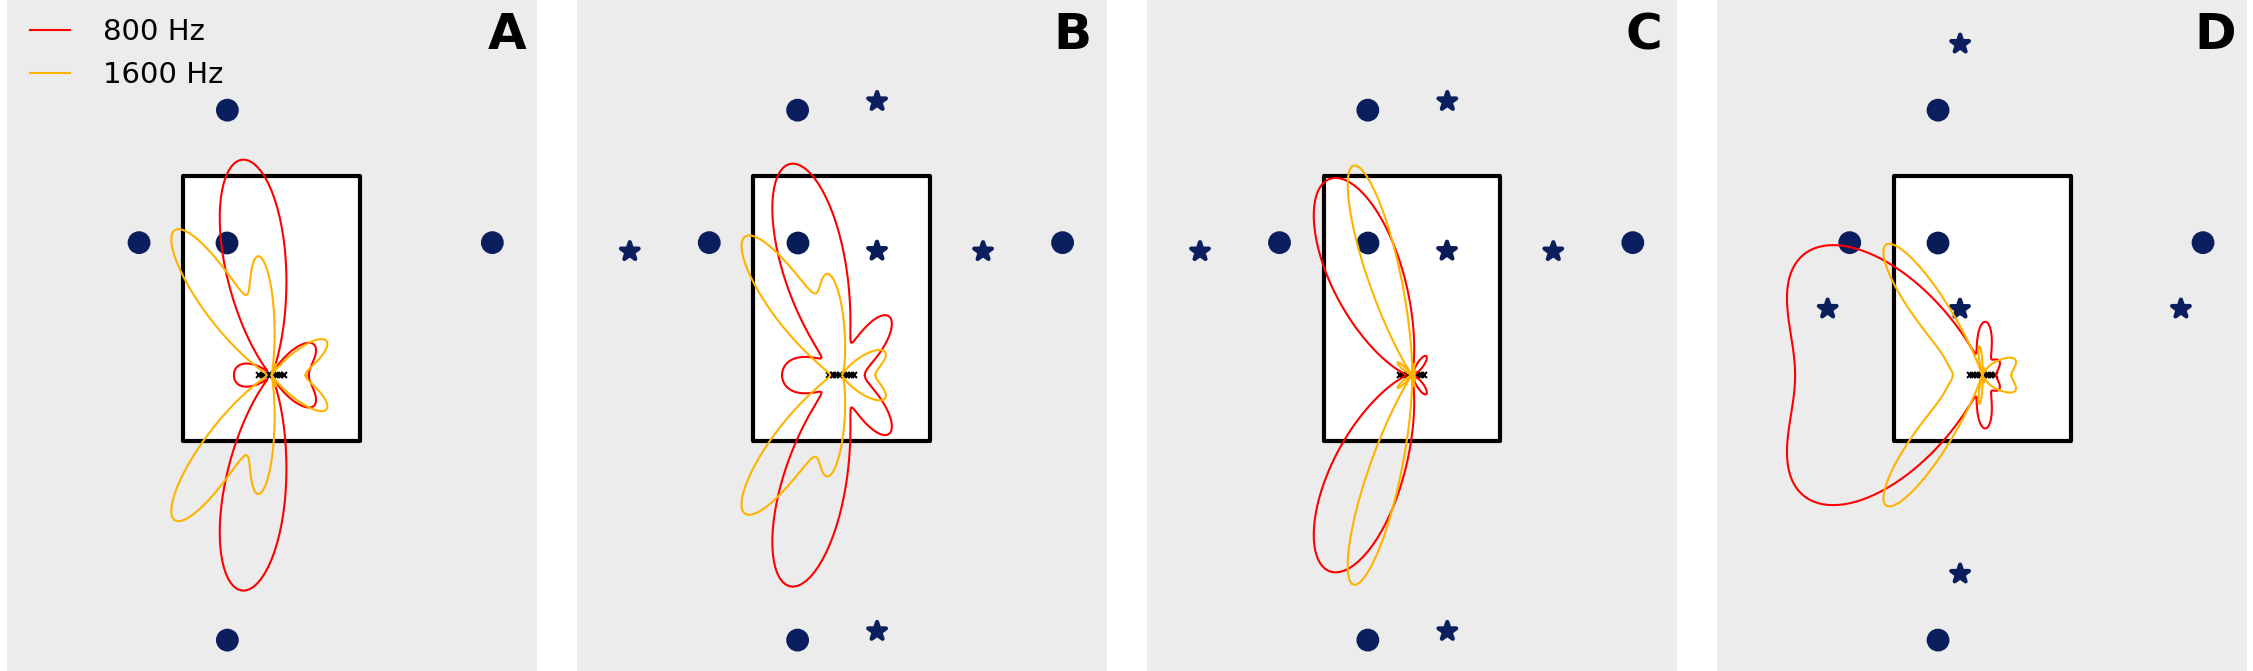
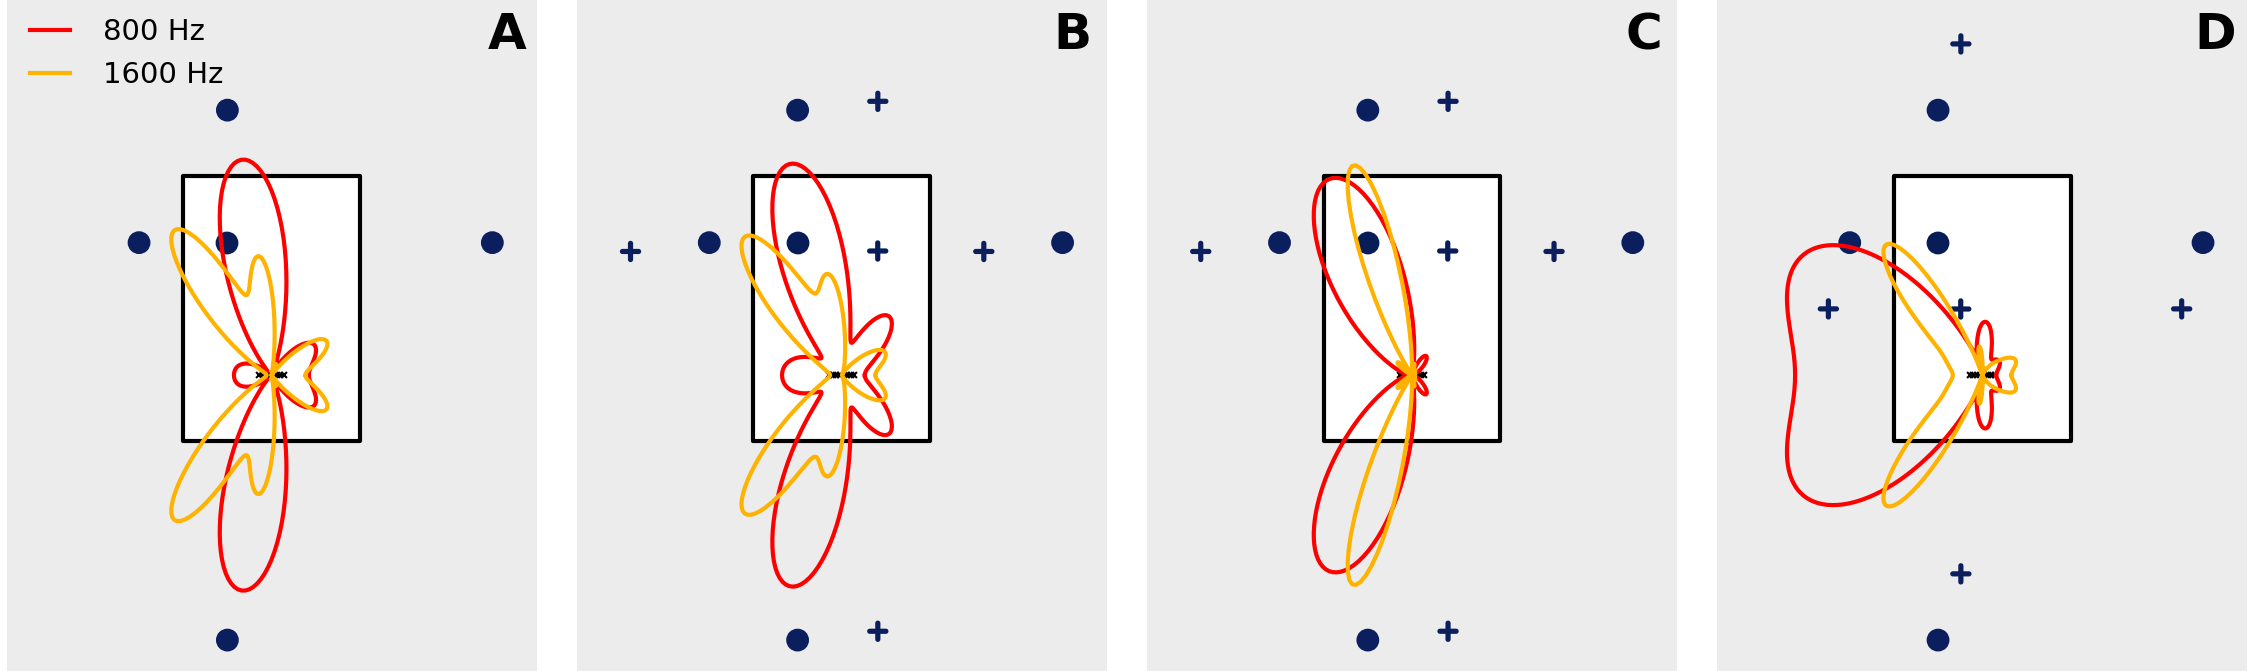
Changed interferer markers. Plot padding for quality.

diff --git a/Room.py b/Room.py
@@ -149,7 +149,7 @@ class Room(object):
                 for f,h in zip(newfreq, H):
                     x = np.cos(phis) * h * norm + self.micArray.center[0, 0]
                     y = np.sin(phis) * h * norm + self.micArray.center[1, 0]
-                    l = ax.plot(x, y, '-', linewidth=0.5)
+                    l = ax.plot(x, y, '-', linewidth=1.0)
                     #lbl = '%.2f' % f
                     #i0 = i*360/len(freq)
                     #ax.text(x[i0], y[i0], lbl, color=plt.getp(l[0], 'color'))
@@ -158,7 +158,7 @@ class Room(object):
                 #ax.legend(freq)
 
         # define some markers for different sources and colormap for damping
-        markers = ['o', '*', 'v', 's', '.']
+        markers = ['o', '$\mathbf{+}$', '*', 'v', 's', '.']
         cmap = plt.get_cmap('YlGnBu')
         # draw the scatter of images
         for i, source in enumerate(self.sources):

diff --git a/figure_quality_plot.py b/figure_quality_plot.py
@@ -174,8 +174,10 @@ plt.tight_layout(pad=0.2)
 
 # Here we plot the figure used in the paper (Fig. 10)
 plt.figure(figsize=(4,3))
-nice_plot(opesq_bf[:,0,:,:], 'PESQ [Raw MOS]', 
+nice_plot(opesq_bf[:,0,:,:], 'PESQ [MOS]', 
         bf_order=['Rake-MaxSINR','Rake-DS','Rake-MaxUDR'])
-plt.tight_layout(pad=0.1)
+#plt.plot(np.arange(max_sources), np.median(ipesq[:,0])*np.ones(max_sources))
+#plt.plot(np.arange(max_sources), np.median(opesq_tri_max[:,0])*np.ones(max_sources))
+plt.tight_layout()
 plt.savefig('figures/perceptual_quality.pdf')
 
